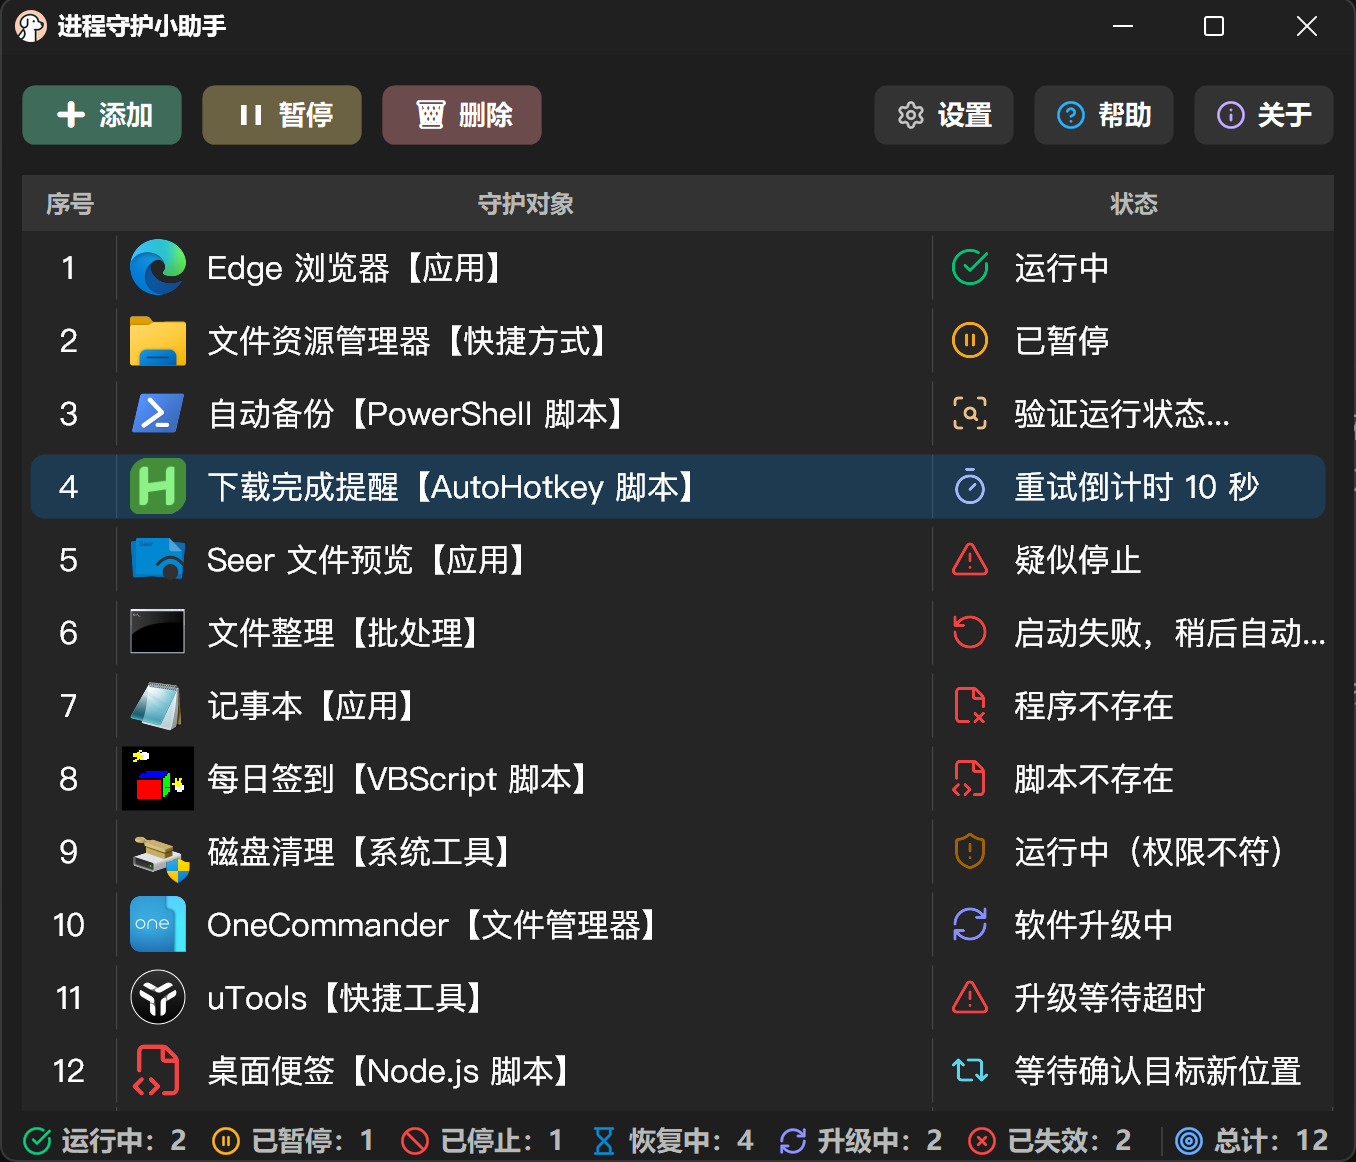
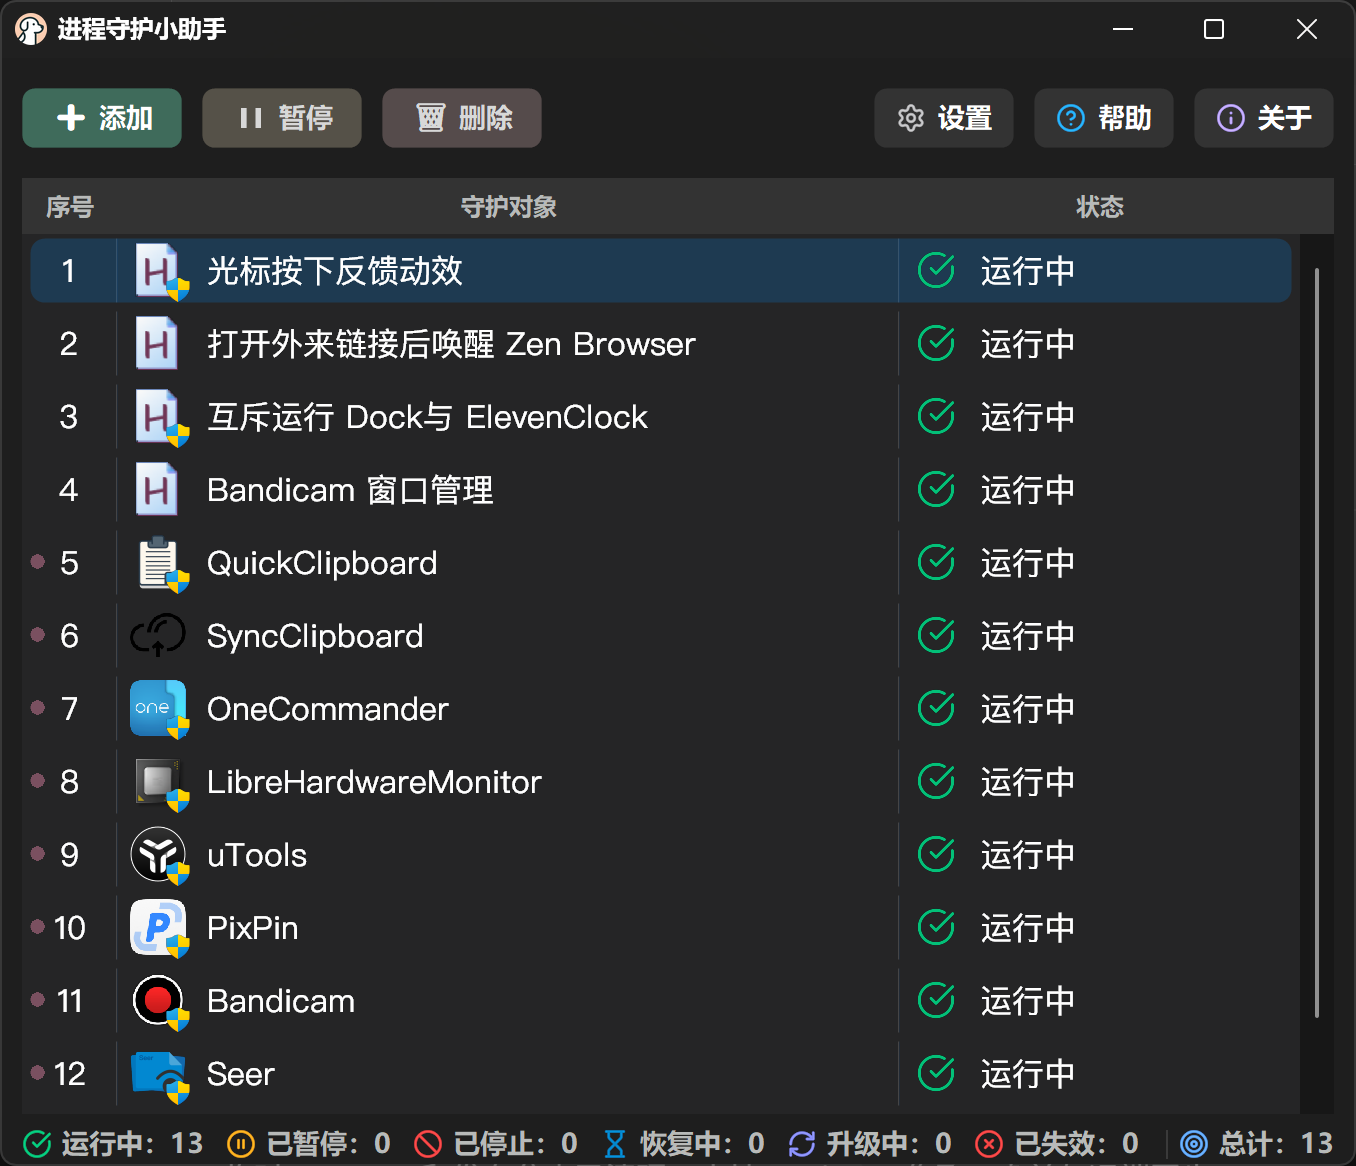
docs: add dark and light interface previews

diff --git a/docs/README.ru.md b/docs/README.ru.md
@@ -35,7 +35,11 @@
 # Обзор интерфейса
 
 <p align="center">
-  <img src="images/process-watchdog-overview.png" alt="Главное окно Process Watchdog Assistant" width="100%">
+  <img src="images/process-watchdog-overview.png" alt="Тёмное главное окно Process Watchdog Assistant" width="100%">
+</p>
+
+<p align="center">
+  <img src="images/process-watchdog-overview-light.png" alt="Главное окно Process Watchdog Assistant" width="100%">
 </p>
 
 В главном окне собраны порядок объектов наблюдения, значок приложения, имя, требования к правам и текущее состояние. Панель команд содержит действия «Добавить», «Удалить», «Приостановить», «Настройки», «Помощь» и «О программе»; справка открывает руководство, журнал или страницу отзывов, а «О программе» объединяет сведения о версии и среде, обновления, проект и поддержку. Нижняя строка показывает число работающих, восстанавливаемых, обновляемых, приостановленных и неисправных объектов, а журнал объясняет доказательства каждого необычного состояния.

diff --git a/docs/README.vi.md b/docs/README.vi.md
@@ -35,7 +35,11 @@ Dự án có giao diện sáng và tối, khôi phục tự động, bảo vệ 
 # Tổng quan giao diện
 
 <p align="center">
-  <img src="images/process-watchdog-overview.png" alt="Cửa sổ chính của Process Watchdog Assistant" width="100%">
+  <img src="images/process-watchdog-overview.png" alt="Cửa sổ chính giao diện tối của Process Watchdog Assistant" width="100%">
+</p>
+
+<p align="center">
+  <img src="images/process-watchdog-overview-light.png" alt="Cửa sổ chính của Process Watchdog Assistant" width="100%">
 </p>
 
 Cửa sổ chính hiển thị thứ tự đối tượng giám sát, biểu tượng ứng dụng, tên, yêu cầu đặc quyền và trạng thái hiện tại. Thanh lệnh có Thêm, Xóa, Tạm dừng, Cài đặt, Trợ giúp và Giới thiệu; Trợ giúp mở hướng dẫn, nhật ký chạy hoặc trang phản hồi, còn Giới thiệu tập hợp phiên bản, môi trường chạy, cập nhật, dự án và Ủng hộ. Thanh dưới cùng tổng hợp số đối tượng đang chạy, đang khôi phục, đang cập nhật, tạm dừng và thất bại; nhật ký giải thích bằng chứng đứng sau từng trạng thái bất thường.

diff --git a/docs/README.fr.md b/docs/README.fr.md
@@ -35,7 +35,11 @@ Le projet propose une interface claire ou sombre, le rétablissement automatique
 # Aperçu de l’interface
 
 <p align="center">
-  <img src="images/process-watchdog-overview.png" alt="Fenêtre principale de Process Watchdog Assistant" width="100%">
+  <img src="images/process-watchdog-overview.png" alt="Fenêtre principale sombre de Process Watchdog Assistant" width="100%">
+</p>
+
+<p align="center">
+  <img src="images/process-watchdog-overview-light.png" alt="Fenêtre principale de Process Watchdog Assistant" width="100%">
 </p>
 
 La fenêtre principale réunit l’ordre des cibles surveillées, l’icône, le nom, les privilèges requis et l’état courant. La barre de commandes propose Ajouter, Supprimer, Suspendre, Réglages, Aide et À propos ; Aide ouvre le mode d’emploi, le journal d’exécution ou la page de retours, tandis qu’À propos regroupe version, environnement, mises à jour, projet et Donner. La barre inférieure récapitule les cibles actives, en rétablissement, en mise à jour, suspendues ou en échec, tandis que le journal expose les indices à l’origine de chaque état anormal.

diff --git a/docs/README.it.md b/docs/README.it.md
@@ -35,7 +35,11 @@ Il progetto offre interfaccia chiara e scura, ripristino automatico, protezione 
 # Panoramica dell’interfaccia
 
 <p align="center">
-  <img src="images/process-watchdog-overview.png" alt="Finestra principale di Process Watchdog Assistant" width="100%">
+  <img src="images/process-watchdog-overview.png" alt="Finestra principale scura di Process Watchdog Assistant" width="100%">
+</p>
+
+<p align="center">
+  <img src="images/process-watchdog-overview-light.png" alt="Finestra principale di Process Watchdog Assistant" width="100%">
 </p>
 
 La finestra principale riunisce l’ordine degli obiettivi monitorati, l’icona dell’app, il nome, i privilegi richiesti e lo stato corrente. La barra dei comandi offre Aggiungi, Elimina, Sospendi, Impostazioni, Aiuto e Informazioni; Aiuto apre il manuale, il registro di esecuzione o la pagina dei commenti, mentre Informazioni riunisce versione, ambiente, aggiornamenti, progetto e Dona. La barra inferiore riepiloga le destinazioni in esecuzione, ripristino, aggiornamento, pausa ed errore, mentre il registro espone le prove alla base di ciascuno stato anomalo.

diff --git a/docs/README.es.md b/docs/README.es.md
@@ -35,7 +35,11 @@ Incluye interfaz clara y oscura, recuperación automática, protección durante 
 # Vista general de la interfaz
 
 <p align="center">
-  <img src="images/process-watchdog-overview.png" alt="Ventana principal de Process Watchdog Assistant" width="100%">
+  <img src="images/process-watchdog-overview.png" alt="Ventana principal oscura de Process Watchdog Assistant" width="100%">
+</p>
+
+<p align="center">
+  <img src="images/process-watchdog-overview-light.png" alt="Ventana principal de Process Watchdog Assistant" width="100%">
 </p>
 
 La ventana principal reúne el orden de los objetivos supervisados, el icono, el nombre, los requisitos de privilegios y el estado actual. La barra de comandos ofrece Añadir, Eliminar, Pausar, Ajustes, Ayuda y Acerca de; Ayuda permite abrir el manual, el registro de ejecución o la página de comentarios, mientras que Acerca de reúne versión, entorno, actualizaciones, proyecto y Donar. La barra inferior resume los destinos en ejecución, recuperación, actualización, pausa y error, y el registro muestra las pruebas que justifican cada estado anómalo.

diff --git a/docs/README.pt-BR.md b/docs/README.pt-BR.md
@@ -35,7 +35,11 @@ O projeto oferece interface clara e escura, recuperação automática, proteçã
 # Visão geral da interface
 
 <p align="center">
-  <img src="images/process-watchdog-overview.png" alt="Janela principal do Process Watchdog Assistant" width="100%">
+  <img src="images/process-watchdog-overview.png" alt="Janela principal escura do Process Watchdog Assistant" width="100%">
+</p>
+
+<p align="center">
+  <img src="images/process-watchdog-overview-light.png" alt="Janela principal do Process Watchdog Assistant" width="100%">
 </p>
 
 A janela principal reúne a ordem dos alvos monitorados, o ícone do aplicativo, o nome, os requisitos de privilégio e o estado atual. A barra de comandos oferece Adicionar, Excluir, Pausar, Configurações, Ajuda e Sobre; Ajuda abre o manual, o log de execução ou a página de comentários, enquanto Sobre reúne versão, ambiente, atualizações, projeto e Doar. A barra inferior resume os alvos em execução, recuperação, atualização, pausa e falha, enquanto o log mostra as evidências por trás de cada estado anormal.

diff --git a/docs/README.de.md b/docs/README.de.md
@@ -35,7 +35,11 @@ Das Projekt bietet eine helle und dunkle Oberfläche, automatische Wiederherstel
 # Oberflächenübersicht
 
 <p align="center">
-  <img src="images/process-watchdog-overview.png" alt="Hauptfenster von Process Watchdog Assistant" width="100%">
+  <img src="images/process-watchdog-overview.png" alt="Dunkles Hauptfenster von Process Watchdog Assistant" width="100%">
+</p>
+
+<p align="center">
+  <img src="images/process-watchdog-overview-light.png" alt="Hauptfenster von Process Watchdog Assistant" width="100%">
 </p>
 
 Das Hauptfenster zeigt Reihenfolge, Anwendungssymbol, Namen, Rechteanforderung und aktuellen Status aller überwachten Ziele. Die Befehlsleiste bietet Hinzufügen, Löschen, Pausieren, Einstellungen, Hilfe und Info; Hilfe führt zu Handbuch, Laufzeitprotokoll oder Feedback, während Info Version, Laufzeit, Updates, Projekt und Spenden bündelt. Die untere Leiste fasst laufende, wiederherzustellende, aktualisierte, pausierte und fehlgeschlagene Ziele zusammen. Das Protokoll erläutert die Belege hinter ungewöhnlichen Zuständen.

diff --git a/docs/README.ko.md b/docs/README.ko.md
@@ -35,7 +35,11 @@
 # 화면 개요
 
 <p align="center">
-  <img src="images/process-watchdog-overview.png" alt="프로세스 감시 도우미 기본 창" width="100%">
+  <img src="images/process-watchdog-overview.png" alt="프로세스 감시 도우미 어두운 기본 창" width="100%">
+</p>
+
+<p align="center">
+  <img src="images/process-watchdog-overview-light.png" alt="프로세스 감시 도우미 기본 창" width="100%">
 </p>
 
 기본 창은 감시 대상 순서, 앱 아이콘, 이름, 권한 요구 사항, 현재 상태를 한곳에 보여 줍니다. 명령 모음에는 추가, 삭제, 일시 중지, 설정, 도움말, 정보가 있으며, 도움말에서 사용 설명서, 실행 로그, 피드백 페이지를 선택할 수 있습니다. 정보에는 버전, 실행 환경, 업데이트, 프로젝트, 후원 작업이 모여 있습니다. 아래쪽에는 실행, 복구, 업데이트, 일시 중지, 실패 대상 수가 표시되고, 비정상 상태의 판단 근거는 실행 로그에서 확인할 수 있습니다.

diff --git a/docs/README.en.md b/docs/README.en.md
@@ -35,7 +35,11 @@ The project provides light and dark GUIs, automatic recovery, update protection,
 # Interface Overview
 
 <p align="center">
-  <img src="images/process-watchdog-overview.png" alt="Process Watchdog Assistant main window" width="100%">
+  <img src="images/process-watchdog-overview.png" alt="Process Watchdog Assistant dark main window" width="100%">
+</p>
+
+<p align="center">
+  <img src="images/process-watchdog-overview-light.png" alt="Process Watchdog Assistant main window" width="100%">
 </p>
 
 The main window keeps each target's order, application icon, display name, privilege requirement, and current state in one view. The command bar provides add, delete, pause, settings, help, and About actions; Help lets users choose the guide, runtime log, or feedback page, while About brings version, runtime, update, project, and Donate actions together. The footer summarizes running, recovery, update, paused, and failed targets, while the runtime log exposes the evidence behind abnormal states.

diff --git a/README.md b/README.md
@@ -35,7 +35,11 @@
 # 界面概览
 
 <p align="center">
-  <img src="docs/images/process-watchdog-overview.png" alt="进程守护小助手主界面" width="100%">
+  <img src="docs/images/process-watchdog-overview.png" alt="进程守护小助手深色主界面" width="100%">
+</p>
+
+<p align="center">
+  <img src="docs/images/process-watchdog-overview-light.png" alt="进程守护小助手主界面" width="100%">
 </p>
 
 主窗口集中展示守护对象顺序、应用图标、名称、权限要求和当前状态。顶部命令栏提供添加、删除、暂停、设置、帮助与关于入口；帮助中可继续选择使用说明、运行日志或提交反馈，关于窗口集中显示版本、运行环境、更新、开源地址和打赏入口。窗口底部汇总运行、恢复、升级、暂停和失败数量，异常状态可以继续通过运行日志追踪到具体判断依据。

diff --git a/docs/README.zh-HK.md b/docs/README.zh-HK.md
@@ -35,7 +35,11 @@
 # 介面概覽
 
 <p align="center">
-  <img src="images/process-watchdog-overview.png" alt="程序守護小助手主介面" width="100%">
+  <img src="images/process-watchdog-overview.png" alt="程序守護小助手深色主介面" width="100%">
+</p>
+
+<p align="center">
+  <img src="images/process-watchdog-overview-light.png" alt="程序守護小助手主介面" width="100%">
 </p>
 
 主視窗集中顯示守護對象的次序、應用程式圖示、名稱、權限要求及目前狀態。頂部指令列提供加入、刪除、暫停、設定、幫助資訊與捐贈入口；幫助資訊可再開啟使用說明或執行記錄。底部狀態列彙總執行中、恢復、更新、暫停和失敗數量，異常狀態可從執行記錄追查具體判斷依據。
